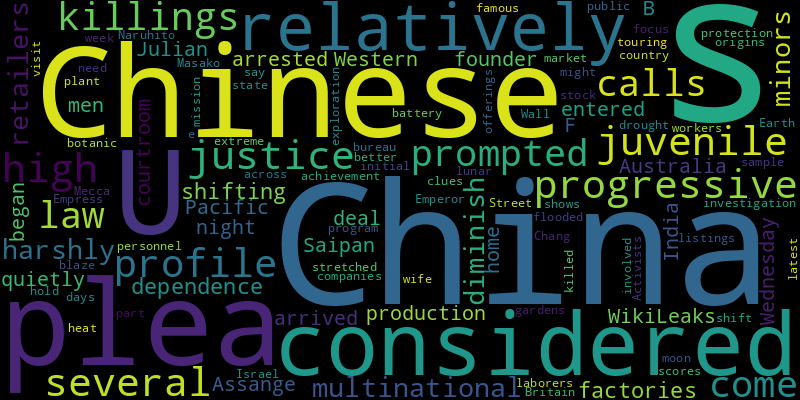
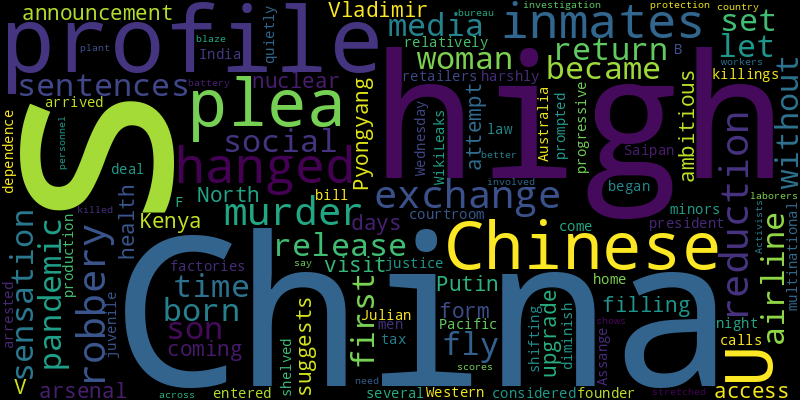
chore(bot): 🐐 auto commit

diff --git a/README.md b/README.md
@@ -2,41 +2,41 @@
 Auto RSS New York Times and Generate Word Cloud
 
 ## New York Times Global News
-* Agencies are struggling to deliver food and other basic necessities, and a report concluded that the territory was at high risk of famine.
+* A panel of global hunger experts warned this week that the Gaza Strip could soon face famine, but to many Gazans, it feels as if one has already arrived.
+* Iranians say they have little faith their votes in Friday’s presidential election will improve their lives, and many are planning to sit it out.
+* The British monarch is constitutionally barred from any role in politics. But experts say that Charles and the leader of the Labour Party, Keir Starmer, have much in common.
+* The announcement, coming days after Vladimir V. Putin’s visit to Pyongyang, suggests an ambitious attempt to upgrade the North’s nuclear arsenal.
+* Officials say Kyiv won’t get membership negotiations at the coming NATO summit, but the alliance will announce a structure to coordinate aid over the longer term.
 * Evan Gershkovich of The Wall Street Journal has endured 15 months in prison by reading letters and Russian classics, while the authorities have not publicly offered any evidence that he was a spy.
-* The WikiLeaks founder, who entered the plea in a U.S. courtroom in Saipan in the Western Pacific, arrived home to Australia on Wednesday night.
-* Broad support for his release seems to have grown more out of resentment of his treatment by the U.S. justice system than concerns about press protections.
-* Mr. Rutte, who served as the Dutch prime minister for nearly 14 years, has been a harsh critic of Russia’s president, Vladimir V. Putin, and a strong supporter of Ukraine.
-* Businesses were slowly reopening a day after the government deployed the military to quell the unrest, but the country remained on edge.
-* With his populist, anti-immigration campaign, Nigel Farage is once more shaking up Britain’s politics. Can he finally win a seat in the national Parliament?
-* China has been considered relatively progressive on juvenile justice. But several high-profile killings have prompted calls for the law to come down more harshly on minors.
-* The deaths of at least 1,300 pilgrims during the hajj point to the growing threat that climate change poses to beloved gatherings.
-* Many long considered Marine Le Pen’s party too extreme to be anywhere close to power. Now, the party could win a parliamentary election — and fill the prime minister’s seat.
+* The 2016 peace treaty that ended a decades-long civil conflict has turned Colombia — home to more species of birds than any other country on Earth — into a birders’ delight, opening up forests that were once controlled by anti-government armed groups.
+* A day after at least 23 people were killed in demonstrations against a tax increase, President William Ruto withdrew the law that he said was necessary to avoid defaulting on the country’s debt.
+* The former U.S. president’s election is treated as a foregone conclusion, with the six contenders clashing over who is best suited to handling him.
+* Israel’s insular ultra-Orthodox community has long been exempt from military service. The Supreme Court’s decision to end that exemption could change the country’s social and political dynamics.
 
 ![Global](./global.png)
 ## New York Times United States News
-* Many American dams are aging and in need of serious repairs. Climate change only makes the problem more urgent.
-* The killing of 12-year-old Jocelyn Nungaray in Houston has become the latest crime seized on by Republicans to attack President Biden over his immigration policies.
 * Parents, desperate for help, are turning to private schools with a half-dozen or so students. And they are getting a financial boost from taxpayers.
-* Two new studies suggest that the largest single federal investment in U.S. schools improved student test scores, but only modestly.
+* Bishop Sean Rowe, 49, called for the church to be resilient heading into what he described as an “existential crisis” caused by a changing world.
+* Groups investigating antisemitism and anti-Muslim bias cited instances of discrimination against pro-Israel students and “a pervasive climate of intolerance” against pro-Palestinian students.
+* The decades-long friendship of two men who never especially changed.
 * The Constitution and U.S. law have clear answers for only some of the questions raised by the criminal conviction of a major presidential candidate.
 * The former president could face probation or prison time. Either option would be without precedent.
 * Donald J. Trump has promised to appeal, but he may face limits on his ability to travel and to vote as he campaigns for the White House.
-* The president’s proclamation would grant clemency to around 2,000 people charged between 1951 and 2013 under a military code that outlawed the behavior.
-* Ramiro Gonzales, who killed a woman in 2001, was set to be executed on Wednesday, though a psychiatrist who suggested he was likely to reoffend has since changed his opinion.
-* After more than half a century in Washington, President Biden has learned to make deals and work across the aisle. But that instinct is rarely rewarded in today’s political climate.
+* Three bodies were discovered near the mountain’s crater, the local media reported. Separately, a professional climber fell unconscious and died.
+* Even as Donald Trump has narrowed his list of top choices, he and his advisers are stoking speculation about others and suggesting that an announcement is imminent — or maybe not.
+* The former president’s past tariffs raised prices for consumers and businesses, economists say. His next plan could tax 10 times as many imports.
 
 ![US](./usnews.png)
 ## New York Times Asia News
+* He hanged high-profile inmates in exchange for a reduction in his own robbery and murder sentences, and became a social media sensation after his release.
+* A woman and her Chinese-born son were set to return to China for the first time since the pandemic, but their airline would not let them fly without filling out a health form they could not access.
+* The announcement, coming days after Vladimir V. Putin’s visit to Pyongyang, suggests an ambitious attempt to upgrade the North’s nuclear arsenal.
+* Also, Kenya’s president shelved the tax bill.
 * China has been considered relatively progressive on juvenile justice. But several high-profile killings have prompted calls for the law to come down more harshly on minors.
 * As multinational retailers diminish their dependence on Chinese factories, some are shifting production to India.
-* The WikiLeaks founder, who entered the plea in a U.S. courtroom in Saipan in the Western Pacific, arrived home to Australia on Wednesday night.
+* The WikiLeaks founder, who entered the plea in a U.S. courtroom in Saipan in the Western Pacific, arrived home in Australia on Wednesday night.
 * Also, Julian Assange’s plea deal with the U.S.
 * The men were arrested after the F.B.I. quietly began an investigation that stretched across the country and involved scores of bureau personnel.
 * Activists say the blaze that killed 23 laborers at a battery plant, most of them from China, shows that such workers need better protection.
-* Emperor Naruhito is touring the famous botanic gardens this week as part of a state visit to Britain with his wife, Empress Masako.
-* The Chang’e-6 mission’s sample, which might hold clues about the origins of the moon and Earth, is the latest achievement of China’s lunar exploration program.
-* Chinese companies’ stock market listings once flooded Wall Street. These days, China’s initial public offerings are in a drought.
-* Also, a shift in Israel’s focus and extreme heat in Mecca.
 
 ![Asian](./asian.png)
